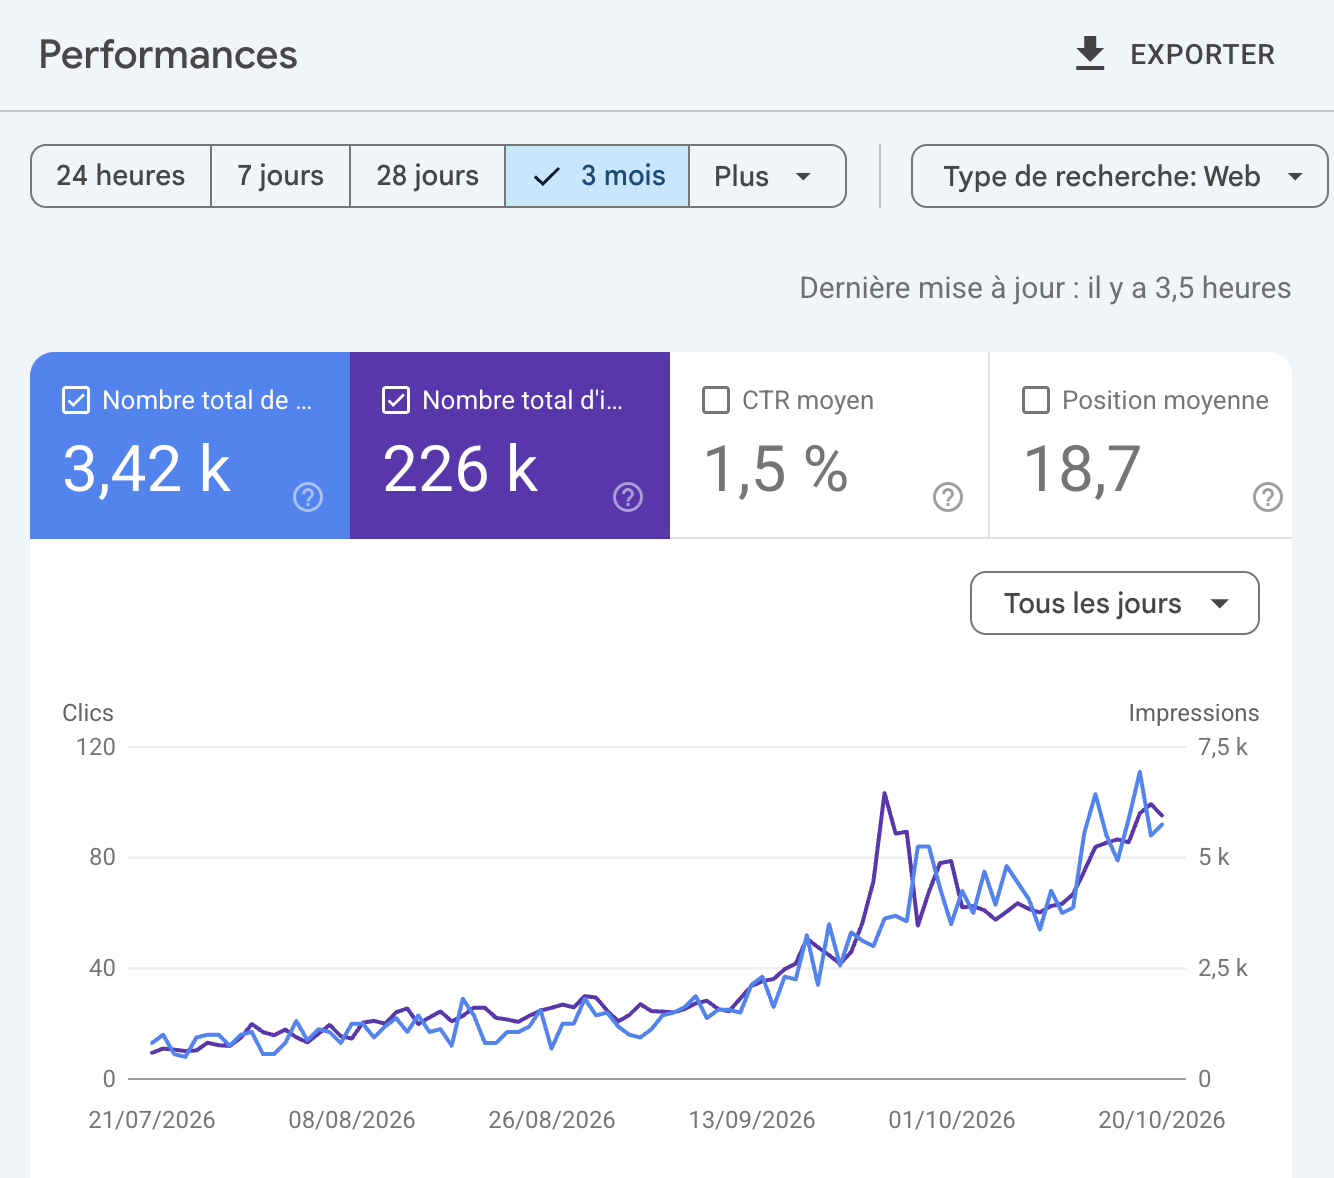
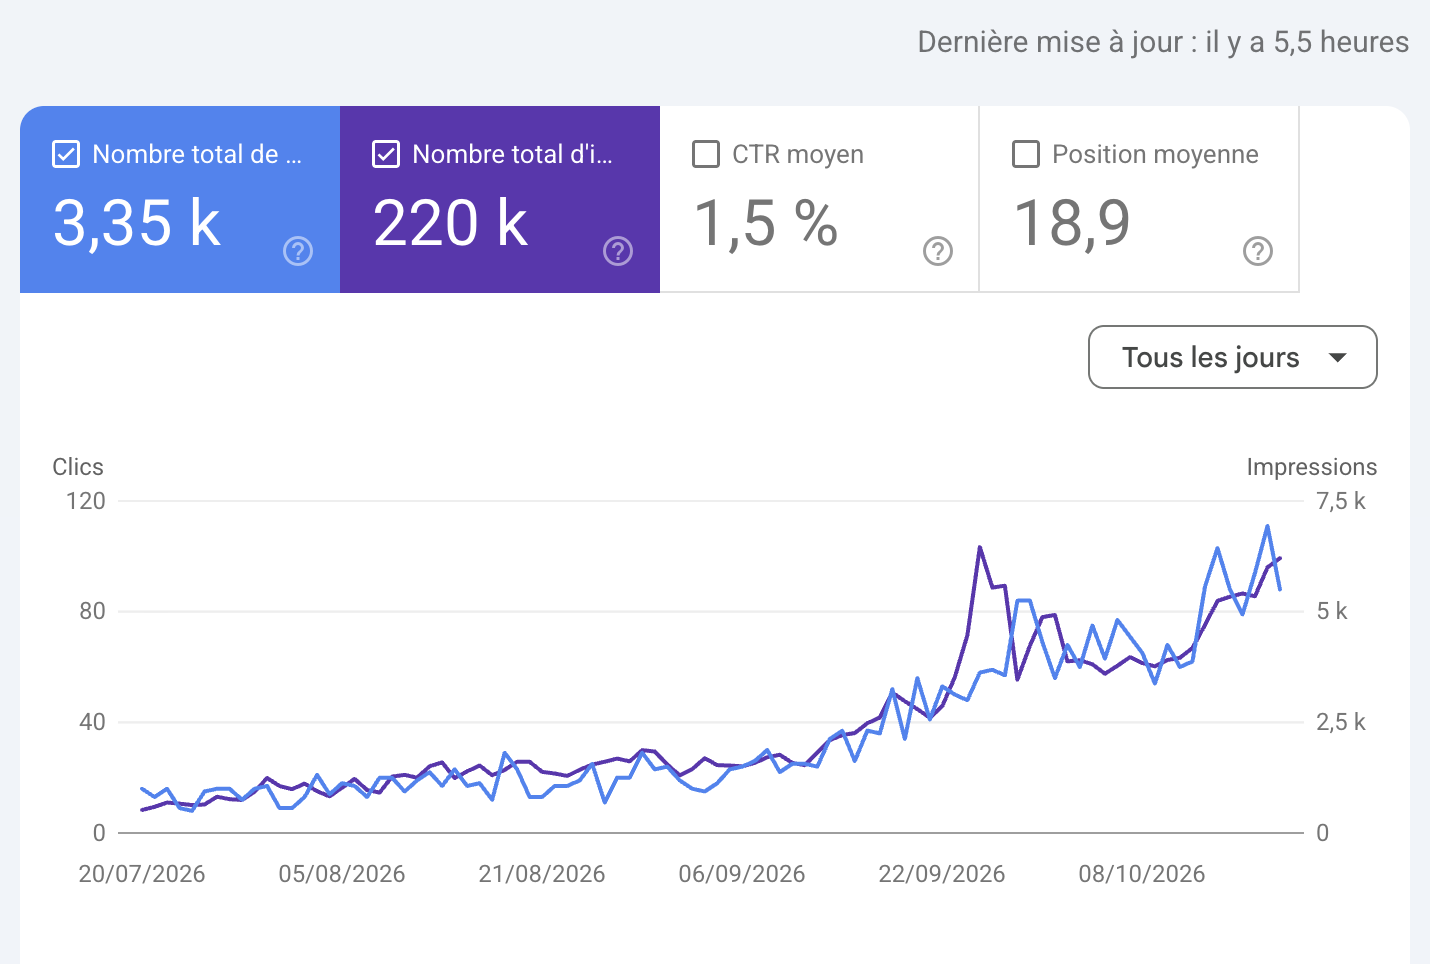
chore: refresh Magical Chart Search Console screenshot and figures
3.42k -> 3.35k clicks, 226k -> 220k impressions, 18.7 -> 18.9 avg
position. Period label changed to 'Last 3 months' since the exact
end date can't be confirmed from the screenshot alone.

diff --git a/portfolio/index.html b/portfolio/index.html
@@ -113,12 +113,12 @@
           <div class="case-analytics">
             <div class="results-heading"><h3>Results at a glance</h3><p>Observed site data · sources and periods shown below</p></div>
             <div class="search-panel">
-            <div class="tool-brand gsc"><img src="/portfolio/assets/google-search-console.svg" alt="Google Search Console"><span class="tool-period">21 Jul – 20 Oct 2026</span></div>
+            <div class="tool-brand gsc"><img src="/portfolio/assets/google-search-console.svg" alt="Google Search Console"><span class="tool-period">Last 3 months</span></div>
             <div class="metrics">
-              <div class="metric metric-primary"><strong>3.42k</strong><span>Google Search clicks</span></div>
-              <div class="metric metric-primary"><strong>226k</strong><span>Google Search impressions</span></div>
+              <div class="metric metric-primary"><strong>3.35k</strong><span>Google Search clicks</span></div>
+              <div class="metric metric-primary"><strong>220k</strong><span>Google Search impressions</span></div>
               <div class="metric"><strong>1.5%</strong><span>Average click-through rate</span></div>
-              <div class="metric"><strong>18.7</strong><span>Average position</span></div>
+              <div class="metric"><strong>18.9</strong><span>Average position</span></div>
             </div>
             <div class="visual-caption">Site-wide Search Console results for this period. They reflect overall site performance and are not attributed to one change.</div>
             <div class="trend-label">Clicks and impressions · first vs last 31 days</div>
@@ -357,10 +357,10 @@
   <dialog class="stats-modal" id="search-stats-modal" aria-labelledby="stats-modal-title">
     <button class="stats-close" type="button" aria-label="Close Search Console screenshots">×</button>
     <div class="stats-modal-inner">
-      <span class="case-type">Google Search Console · 22 October 2026</span>
+      <span class="case-type">Google Search Console · 28 October 2026</span>
       <h2 id="stats-modal-title">Search performance snapshots</h2>
       <p>Three-month search performance, followed by the generative AI features report. These are dated screenshots, not live account data.</p>
-      <figure><figcaption>Web search · 21 July–20 October 2026</figcaption><img src="/portfolio/assets/search-console-performance-oct-2026.png" alt="Google Search Console performance for three months: 3.42 thousand clicks, 226 thousand impressions, average CTR 1.5 percent and average position 18.7." loading="lazy"></figure>
+      <figure><figcaption>Web search · last 3 months</figcaption><img src="/portfolio/assets/search-console-performance-oct-2026.png" alt="Google Search Console performance for three months: 3.35 thousand clicks, 220 thousand impressions, average CTR 1.5 percent and average position 18.9." loading="lazy"></figure>
       <figure><figcaption>Generative AI features · impressions report</figcaption><img src="/portfolio/assets/search-console-ai-features-oct-2026.png" alt="Google Search Console generative AI features report showing 13 thousand impressions over three months, with a daily value of 740 on 20 October 2026." loading="lazy"></figure>
     </div>
   </dialog>
